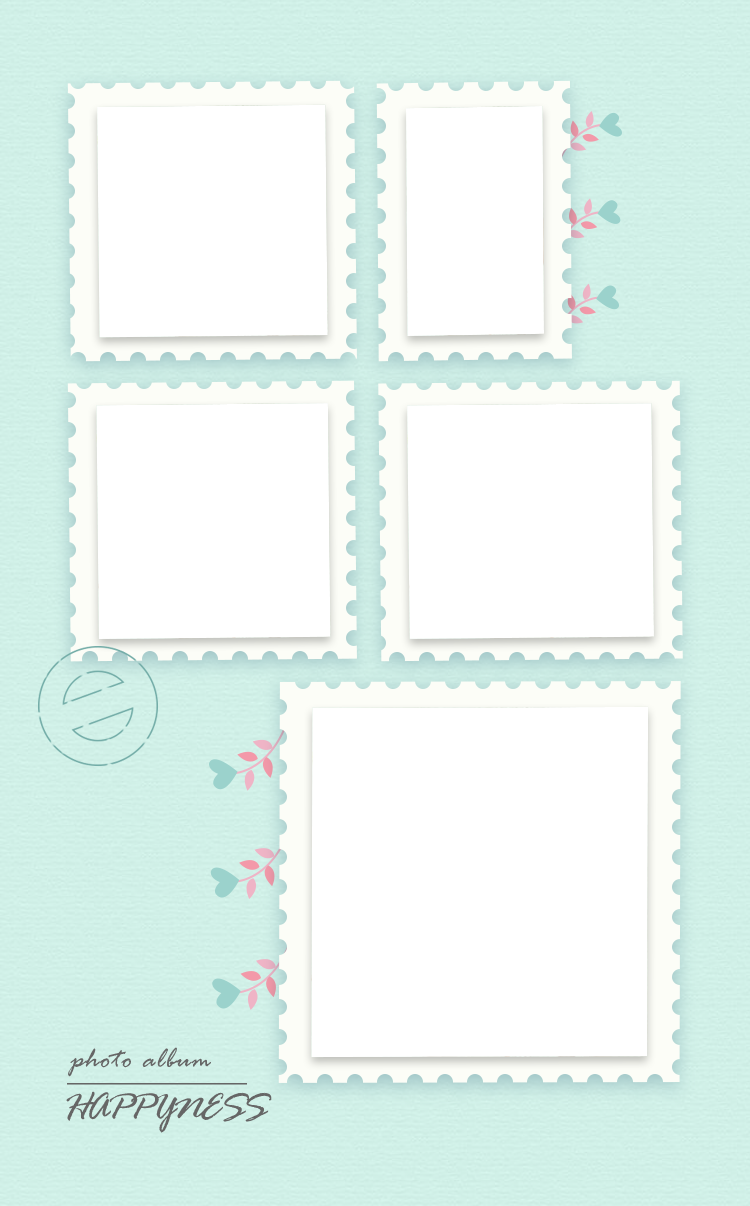
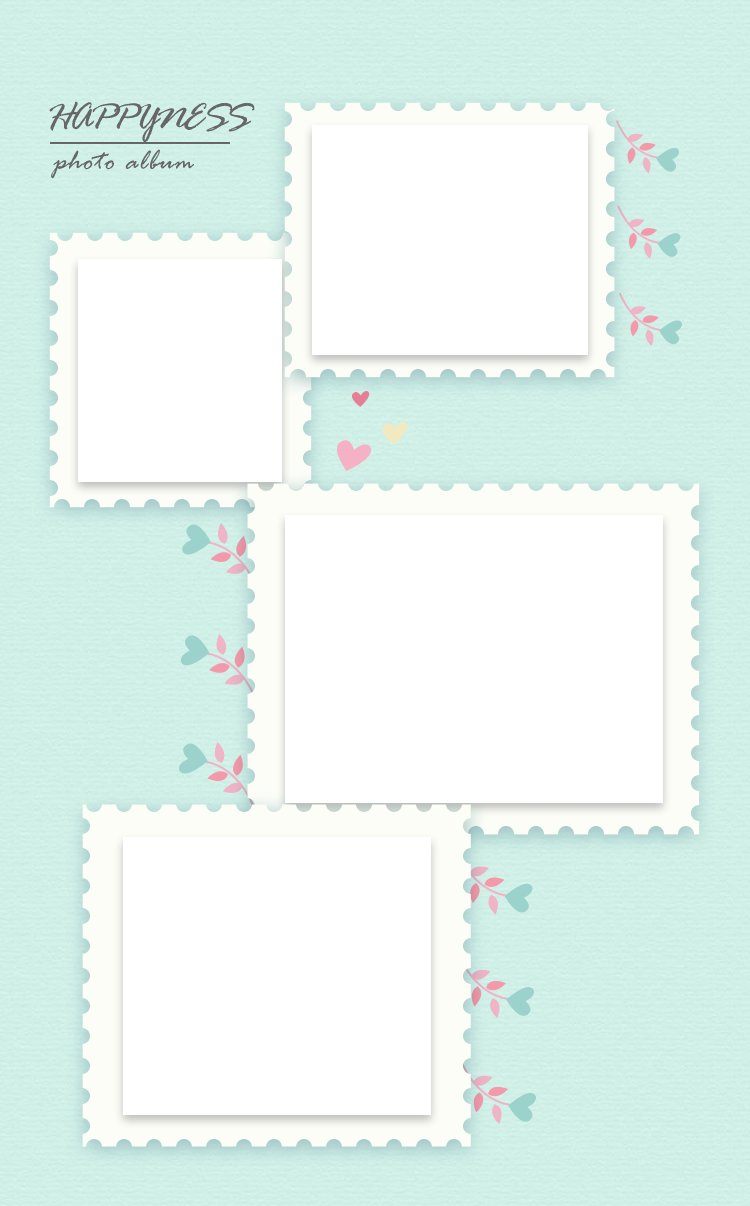
asd

diff --git a/index.html b/index.html
@@ -20,7 +20,6 @@
         		padding: 0;
         		width: 100%;
 		        height: 100%;
-		        font-size:;
 			}
 			body .dis-none{
 				display: none;
@@ -298,6 +297,11 @@
 			    background-color: rgb(243, 241, 236);
 			}
 			.anchorBL{display:none}
+			#pic-page1-bg,#pic-page2-bg,#pic-page3-bg,#pic-page4-bg,#pic-page5-bg{
+				width: 100%;
+				height: 100%;
+			}
+
 		</style>
 	</head>
 	<body>
@@ -326,10 +330,180 @@
 		        			<article>国际厅4F</article>
 		        		</div>
 		        	</div>
-					<a href="javascript:;" class="upload-pic">选择文件
+					<a href="javascript:;" class="upload-pic" style="display: none;">选择文件
 					    <input type="file" name="" id="">
 					</a>
 		        </div>
+		        <!--相册1-->
+		        <section class="swiper-slide pic-page1">
+		        	<style type="text/css" scoped="">
+		        		#pic-page1-photo1{
+						    position: absolute;
+						    left: 19%;
+						    top: 19.6%;
+						    width: 63.8%;
+						    height: 53%;
+						    transform: rotate(-8deg);
+						    -webkit-transform: rotate(-8deg);
+							-moz-transform: rotate(-8deg);
+							-ms-transform: rotate(-8deg);
+							-o-transform: rotate(-8deg);
+						}
+		        	</style>
+		        	<canvas id="pic-page1-bg"></canvas>
+		        	<canvas id="pic-page1-photo1"></canvas>
+		        </section>
+		        <!--相册2-->
+		        <section class="swiper-slide pic-page2">
+		        	<style type="text/css" scoped> 
+						#pic-page2-photo1{
+							position: absolute;
+						    left: 14%;
+						    top: 52.6%;
+						    width: 52.8%;
+						    height: 37%;
+						}
+						#pic-page2-photo2{
+							position: absolute;
+						    left: 37%;
+						    top: 22%;
+						    width: 49%;
+						    height: 26%;
+						}
+					</style>
+		        	<canvas id="pic-page2-bg"></canvas>
+		        	<canvas id="pic-page2-photo1"></canvas>
+		        	<canvas id="pic-page2-photo2"></canvas>
+		        </section>
+		        <!--相册3-->
+		        <section class="swiper-slide pic-page3">
+		        	<style type="text/css" scoped> 
+						#pic-page3-photo1{
+						    position: absolute;
+						    left: 10%;
+						    top: 66.6%;
+						    width: 43.8%;
+						    height: 19%;
+						    transform: rotate(-8deg);
+						    -webkit-transform: rotate(-8deg);
+							-moz-transform: rotate(-8deg);
+							-ms-transform: rotate(-8deg);
+							-o-transform: rotate(-8deg);
+						}
+						#pic-page3-photo2{
+						    position: absolute;
+						    left: 46%;
+						    top: 31%;
+						    width: 42%;
+						    height: 30%;
+						    transform: rotate(-3deg);
+						    -webkit-transform: rotate(-3deg);
+							-moz-transform: rotate(-3deg);
+							-ms-transform: rotate(-3deg);
+							-o-transform: rotate(-3deg);
+						}
+						#pic-page3-photo3{
+							position: absolute;
+						    left: 12%;
+						    top: 11.7%;
+						    width: 28.5%;
+						    height: 18.5%;
+						    transform: rotate(14deg);
+						    -webkit-transform: rotate(14deg);
+							-moz-transform: rotate(14deg);
+							-ms-transform: rotate(14deg);
+							-o-transform: rotate(14deg);
+						}
+					</style>
+		        	<canvas id="pic-page3-bg"></canvas>
+		        	<canvas id="pic-page3-photo1"></canvas>
+		        	<canvas id="pic-page3-photo2"></canvas>
+		        	<canvas id="pic-page3-photo3"></canvas>
+		        </section>
+		        <!--相册4-->
+		        <section class="swiper-slide pic-page4">
+		        	<style type="text/css" scoped>
+		        		#pic-page4-photo1{
+						    position: absolute;
+						    left: 17%;
+						    top: 70%;
+						    width: 40%;
+						    height: 22%;
+						}
+						#pic-page4-photo2{
+					        position: absolute;
+						    left: 38%;
+						    top: 43%;
+						    width: 49.5%;
+						    height: 23.5%;
+						}
+						#pic-page4-photo3{
+						    position: absolute;
+						    left: 11%;
+						    top: 22%;
+						    width: 26%;
+						    height: 17.5%;
+						}
+						#pic-page4-photo4{
+						    position: absolute;
+						    left: 42%;
+						    top: 11%;
+						    width: 36%;
+						    height: 18%;
+						}
+		        	</style>
+		        	<canvas id="pic-page4-bg"></canvas>
+		        	<canvas id="pic-page4-photo1"></canvas>
+		        	<canvas id="pic-page4-photo2"></canvas>
+		        	<canvas id="pic-page4-photo3"></canvas>
+		        	<canvas id="pic-page4-photo4"></canvas>
+		        </section>
+		        <!--相册5-->
+		        <section class="swiper-slide pic-page5">
+		        	<style type="text/css" scoped>
+		        		#pic-page5-photo1{
+					        position: absolute;
+						    left: 42%;
+						    top: 59%;
+						    width: 44%;
+						    height: 28.5%;
+						}
+						#pic-page5-photo2{
+				            position: absolute;
+						    left: 55%;
+						    top: 34%;
+						    width: 32%;
+						    height: 19%;	
+						}
+						#pic-page5-photo3{
+					        position: absolute;
+						    left: 13%;
+						    top: 34%;
+						    width: 31%;
+						    height: 19%;
+						}
+						#pic-page5-photo4{
+					        position: absolute;
+						    left: 54%;
+						    top: 9%;
+						    width: 18%;
+						    height: 19%;
+						}
+						#pic-page5-photo5{
+					        position: absolute;
+						    left: 13%;
+						    top: 9%;
+						    width: 30%;
+						    height: 19%;
+						}
+		        	</style>
+		        	<canvas id="pic-page5-bg"></canvas>
+		        	<canvas id="pic-page5-photo1"></canvas>
+		        	<canvas id="pic-page5-photo2"></canvas>
+		        	<canvas id="pic-page5-photo3"></canvas>
+		        	<canvas id="pic-page5-photo4"></canvas>
+		        	<canvas id="pic-page5-photo5"></canvas>
+		        </section>
 		        <!--第二页-->
 		        <div class="swiper-slide middle">
 		        	<canvas id="middle-bg"></canvas>
@@ -545,6 +719,50 @@
 		
 		var middleBg = document.querySelector('#middle-bg');
 		drawCanvasImg(middleBg,'img/num1/num1-cover2.png');
+		
+		drawBg(5);
+		function drawBg(n){
+			for(var i=1;i<=n;i++){
+				console.log(n);
+				var coverPicBg = document.querySelector('#pic-page'+i+'-bg');
+				drawCanvasImg(coverPicBg,'img/num1/bg ('+i+').png');
+			}
+		}
+		
+		var picPage1Photo1 = document.querySelector('#pic-page1-photo1');
+		drawCanvasImg(picPage1Photo1,'img/num1/img.jpg');
+		
+		var picPage2Photo1 = document.querySelector('#pic-page2-photo1');
+		drawCanvasImg(picPage2Photo1,'img/num1/img.jpg');
+		var picPage2Photo2 = document.querySelector('#pic-page2-photo2');
+		drawCanvasImg(picPage2Photo2,'img/num1/img.jpg');
+		
+		var picPage3Photo1 = document.querySelector('#pic-page3-photo1');
+		drawCanvasImg(picPage3Photo1,'img/num1/img.jpg');
+		var picPage3Photo2 = document.querySelector('#pic-page3-photo2');
+		drawCanvasImg(picPage3Photo2,'img/num1/img.jpg');
+		var picPage3Photo3 = document.querySelector('#pic-page3-photo3');
+		drawCanvasImg(picPage3Photo3,'img/num1/img.jpg');
+		
+		var picPage4Photo1 = document.querySelector('#pic-page4-photo1');
+		drawCanvasImg(picPage4Photo1,'img/num1/img.jpg');
+		var picPage4Photo2 = document.querySelector('#pic-page4-photo2');
+		drawCanvasImg(picPage4Photo2,'img/num1/img.jpg');
+		var picPage4Photo3 = document.querySelector('#pic-page4-photo3');
+		drawCanvasImg(picPage4Photo3,'img/num1/img.jpg');
+		var picPage4Photo4 = document.querySelector('#pic-page4-photo4');
+		drawCanvasImg(picPage4Photo4,'img/num1/img.jpg');
+		
+		var picPage5Photo1 = document.querySelector('#pic-page5-photo1');
+		drawCanvasImg(picPage5Photo1,'img/num1/img.jpg');
+		var picPage5Photo2 = document.querySelector('#pic-page5-photo2');
+		drawCanvasImg(picPage5Photo2,'img/num1/img.jpg');
+		var picPage5Photo3 = document.querySelector('#pic-page5-photo3');
+		drawCanvasImg(picPage5Photo3,'img/num1/img.jpg');
+		var picPage5Photo4 = document.querySelector('#pic-page5-photo4');
+		drawCanvasImg(picPage5Photo4,'img/num1/img.jpg');
+		var picPage5Photo5 = document.querySelector('#pic-page5-photo5');
+		drawCanvasImg(picPage5Photo5,'img/num1/img.jpg');
 	</script>
 	<script type="text/javascript">
 		const proportion = 39.375;
